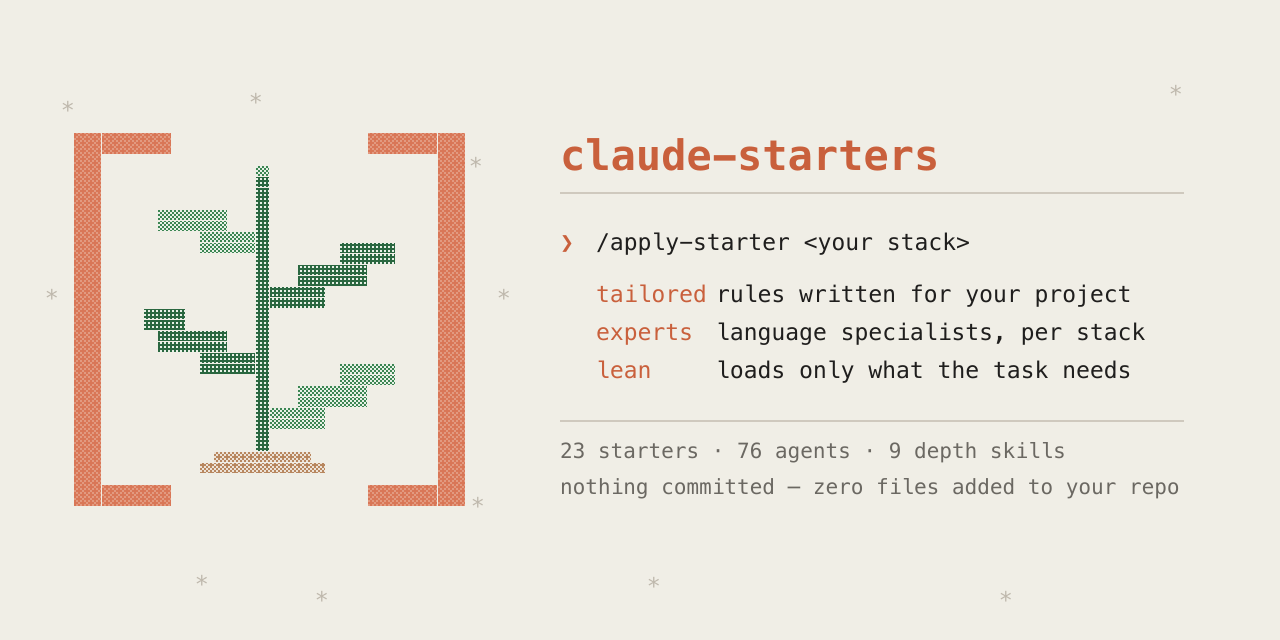
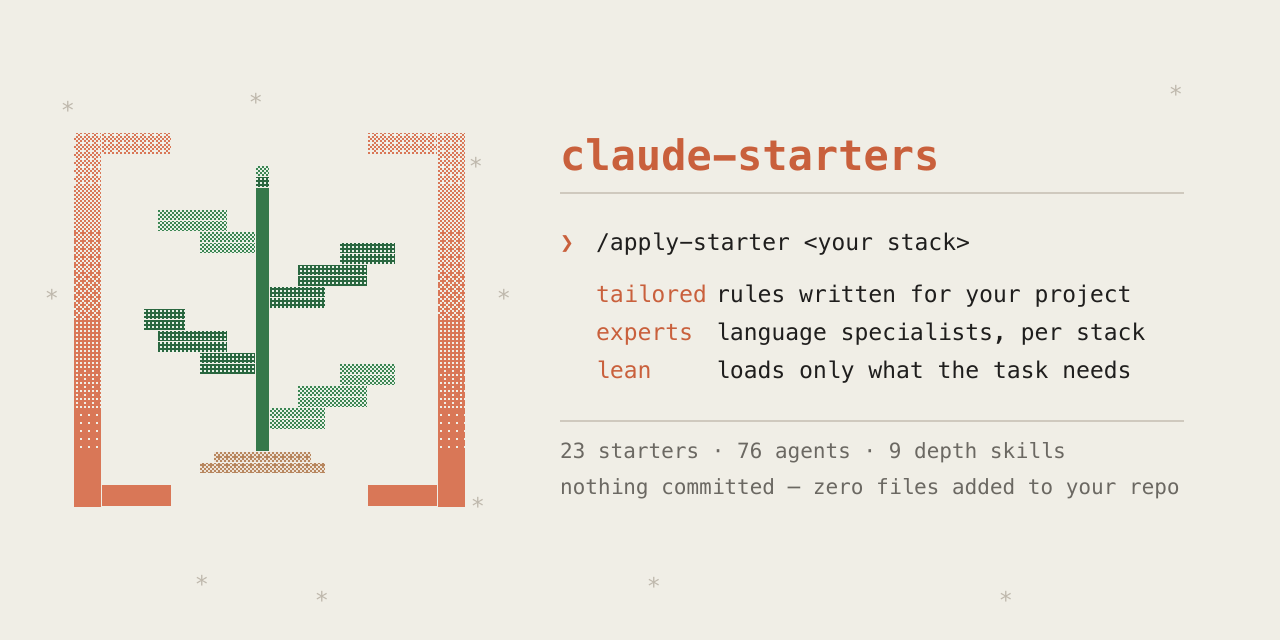
feat(assets): solid trunk, dither-gradient braces
- Trunk is solid again. It was dithered to stop it dominating, but that was a
  fix for the old two-cell column; at one cell wide it no longer needs it, and
  solid gives the mark an anchor against the dithered foliage. Green lightened
  slightly (#2E7044 -> #35784A) so it still doesn't shout.
- Braces are a dither ramp rather than flat fill: solid at the base,
  dissolving upward over 8 Bayer densities, so the frame reads as growing with
  the plant. Tried top-solid first; it drained toward the ground and fought
  the plant's direction.
- Spine bands abut with no GAP, or the ramp reads as a stack of slabs rather
  than one continuous piece.
- Arms take the density of their row. Left solid, the bottom corners jumped
  back to full strength under a faded spine.
- Ramp floors at 7/16 rather than lower: checked at 440px (link-unfurl size)
  and thinner tops stop reading.

Changed region(s): [[0.0312, 0.1875, 0.1562, 0.8125], [0.2812, 0.1875, 0.375, 0.8125]]

diff --git a/assets/make-social-preview.py b/assets/make-social-preview.py
@@ -15,7 +15,7 @@ import pathlib
 
 W, H = 1280, 640
 BG, CLAY, INK, MUTED, RULE = "#F0EEE6", "#C9603C", "#1F1E1D", "#6B6862", "#CFC9BE"
-BRACKET, STEM_G, SOIL = "#D97757", "#2E7044", "#B8875F"
+BRACKET, STEM_G, SOIL = "#D97757", "#35784A", "#B8875F"
 SPARK_C = "#B9B2A6"
 
 # ---- mark geometry -------------------------------------------------------
@@ -75,6 +75,9 @@ SPARK = [(62, 112), (250, 104), (470, 168), (498, 300), (46, 300),
          (472, 508), (196, 586), (648, 588), (1000, 602), (1170, 96), (316, 602)]
 
 DSC = 2
+BRACE_RAMP = [16, 15, 13, 12, 10, 9, 8, 7]   # dots per 16-cell Bayer block;
+                                             # floor stays high or the spine
+                                             # goes translucent mid-bracket
 
 def dither(name, light_bg, dot, on):
     order = [0,8,2,10, 12,4,14,6, 3,11,1,9, 15,7,13,5]     # Bayer 4x4
@@ -89,16 +92,33 @@ def block(row, c0, c1, rows, fill):
     return (f'<rect x="{X0 + c0*UW}" y="{Y0 + row*UH}" '
             f'width="{(c1-c0+1)*UW - GAP}" height="{rows*UH - GAP}" fill="{fill}"/>')
 
-body = [
-    block(0, *SPINE_L, ROWS, "url(#brace)"),
-    block(0, *SPINE_R, ROWS, "url(#brace)"),
-]
+BRACE_STEPS = len(BRACE_RAMP)   # dither ramp: 0 = solid, last = lightest
+
+def brace_density(row):
+    """Solid at the base, dissolving upward — the frame reads as growing with
+    the plant rather than draining into the ground."""
+    up = (ROWS - 1 - row) / (ROWS - 1)
+    return min(BRACE_STEPS - 1, int(up * BRACE_STEPS))
+
+def spine(c0, c1):
+    """One continuous spine, banded by density. No GAP between bands, or the
+    ramp would read as a stack of separate slabs."""
+    out = []
+    for r in range(ROWS):
+        out.append(f'<rect x="{X0 + c0*UW}" y="{Y0 + r*UH}" '
+                   f'width="{(c1-c0+1)*UW - GAP}" height="{UH}" '
+                   f'fill="url(#brace{brace_density(r)})"/>')
+    return out
+
+body = spine(*SPINE_L) + spine(*SPINE_R)
 for r0, th in ARM_ROWS:
-    body.append(block(r0, *ARM_L, th, "url(#brace)"))
-    body.append(block(r0, *ARM_R, th, "url(#brace)"))
+    d = brace_density(r0)          # arms join the ramp, or the corner
+                                   # jumps back to solid below a faded spine
+    body.append(block(r0, *ARM_L, th, f"url(#brace{d})"))
+    body.append(block(r0, *ARM_R, th, f"url(#brace{d})"))
 
 for row, c0, c1, rows in STEM:
-    body.append(block(row, c0, c1, rows, "url(#d75)"))
+    body.append(block(row, c0, c1, rows, STEM_G))
 for row, c0, c1, dens in LEAVES:
     body.append(block(row, c0, c1, 1, f"url(#{dens})"))
 for row, c0, c1 in SOIL_ROWS:
@@ -147,7 +167,7 @@ svg = f'''<svg xmlns="http://www.w3.org/2000/svg" viewBox="0 0 {W} {H}" width="{
     {dither("d50", "#E8F1E7", "#3C8552", 8)}
     {dither("d75", "#E8F1E7", "#2A6740", 12)}
     {dither("soil", "#EDE3D8", "#B8875F", 9)}
-    {dither("brace", "#D97757", "#E29A80", 6)}
+    {"".join(dither(f"brace{i}", "#F0EEE6", "#D97757", d) for i, d in enumerate(BRACE_RAMP))}
   </defs>
   <rect width="{W}" height="{H}" fill="{BG}"/>
   {sparks}
